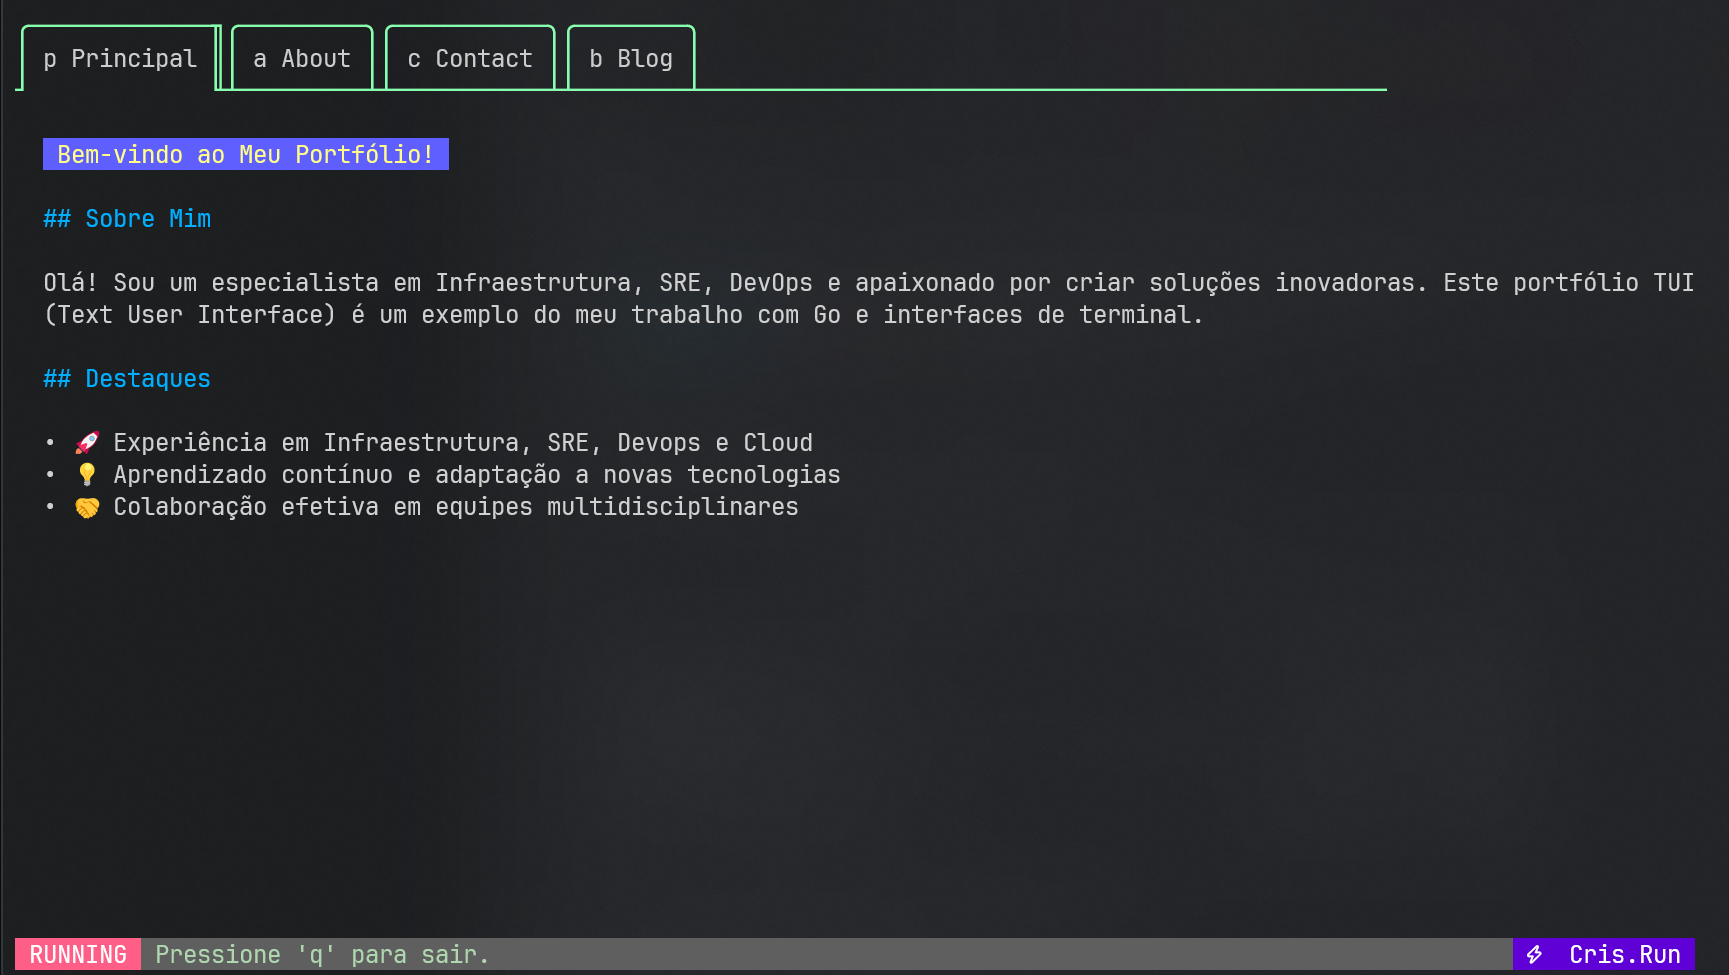
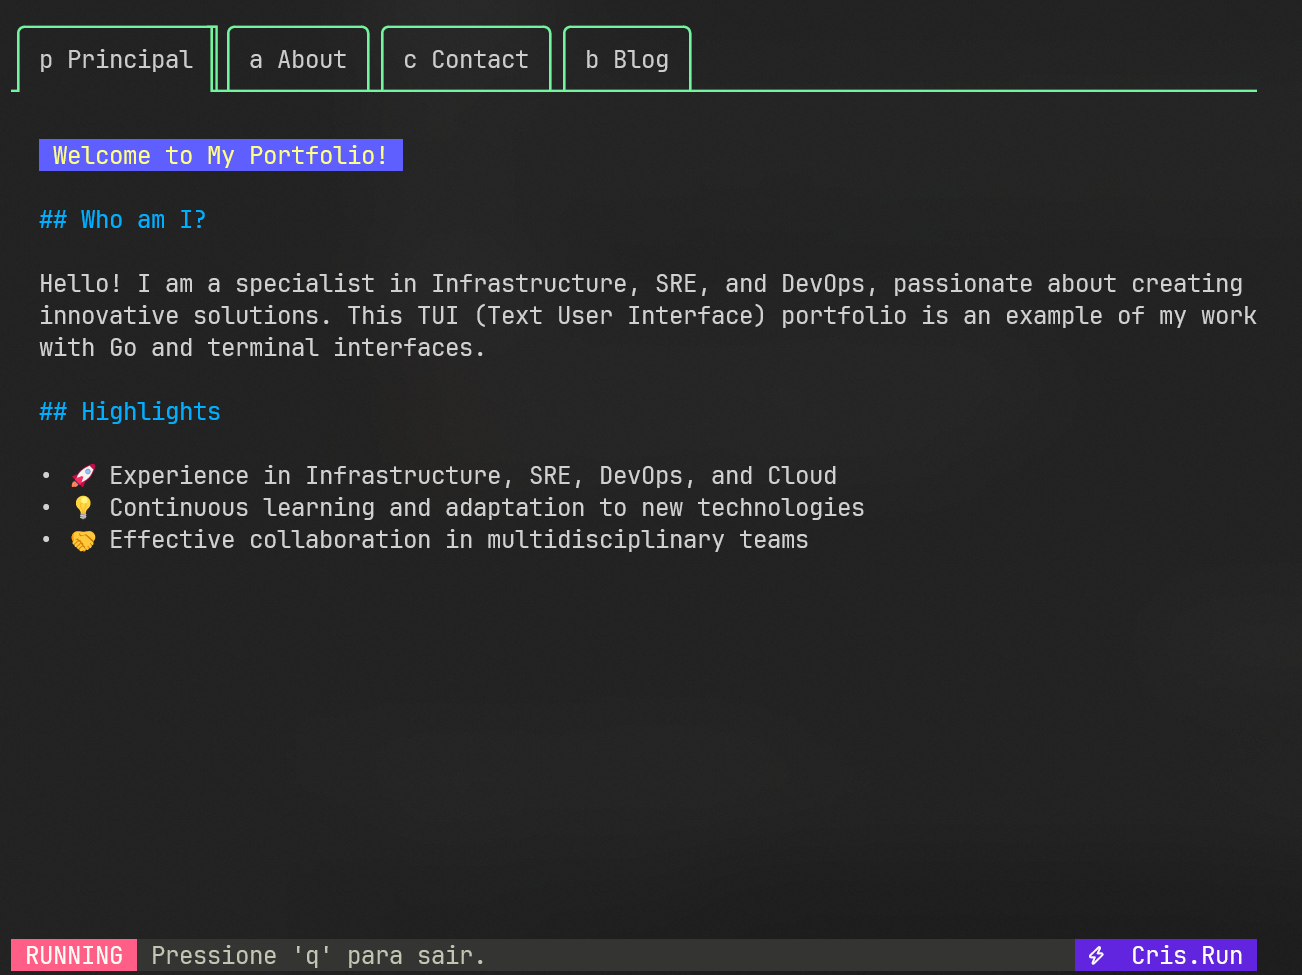
change screenshot

diff --git a/content/home.md b/content/home.md
@@ -1,12 +1,12 @@
-# Bem-vindo ao Meu Portfólio!
+# Welcome to My Portfolio!
 
-## Sobre Mim
+## Who am I?
 
-Olá! Sou um especialista em Infraestrutura, SRE, DevOps e apaixonado por criar soluções inovadoras. 
-Este portfólio TUI (Text User Interface) é um exemplo do meu trabalho com Go e interfaces de terminal.
+Hello! I am a specialist in Infrastructure, SRE, and DevOps, passionate about creating innovative solutions.  
+This TUI (Text User Interface) portfolio is an example of my work with Go and terminal interfaces.
 
-## Destaques
+## Highlights
 
-- 🚀 Experiência em Infraestrutura, SRE, Devops e Cloud
-- 💡 Aprendizado contínuo e adaptação a novas tecnologias
-- 🤝 Colaboração efetiva em equipes multidisciplinares
+- 🚀 Experience in Infrastructure, SRE, DevOps, and Cloud
+- 💡 Continuous learning and adaptation to new technologies
+- 🤝 Effective collaboration in multidisciplinary teams

diff --git a/content/homebr.md b/content/homebr.md
@@ -1,0 +1,12 @@
+# Bem-vindo ao Meu Portfólio!
+
+## Sobre Mim
+
+Olá! Sou um especialista em Infraestrutura, SRE, DevOps e apaixonado por criar soluções inovadoras. 
+Este portfólio TUI (Text User Interface) é um exemplo do meu trabalho com Go e interfaces de terminal.
+
+## Destaques
+
+- 🚀 Experiência em Infraestrutura, SRE, Devops e Cloud
+- 💡 Aprendizado contínuo e adaptação a novas tecnologias
+- 🤝 Colaboração efetiva em equipes multidisciplinares
